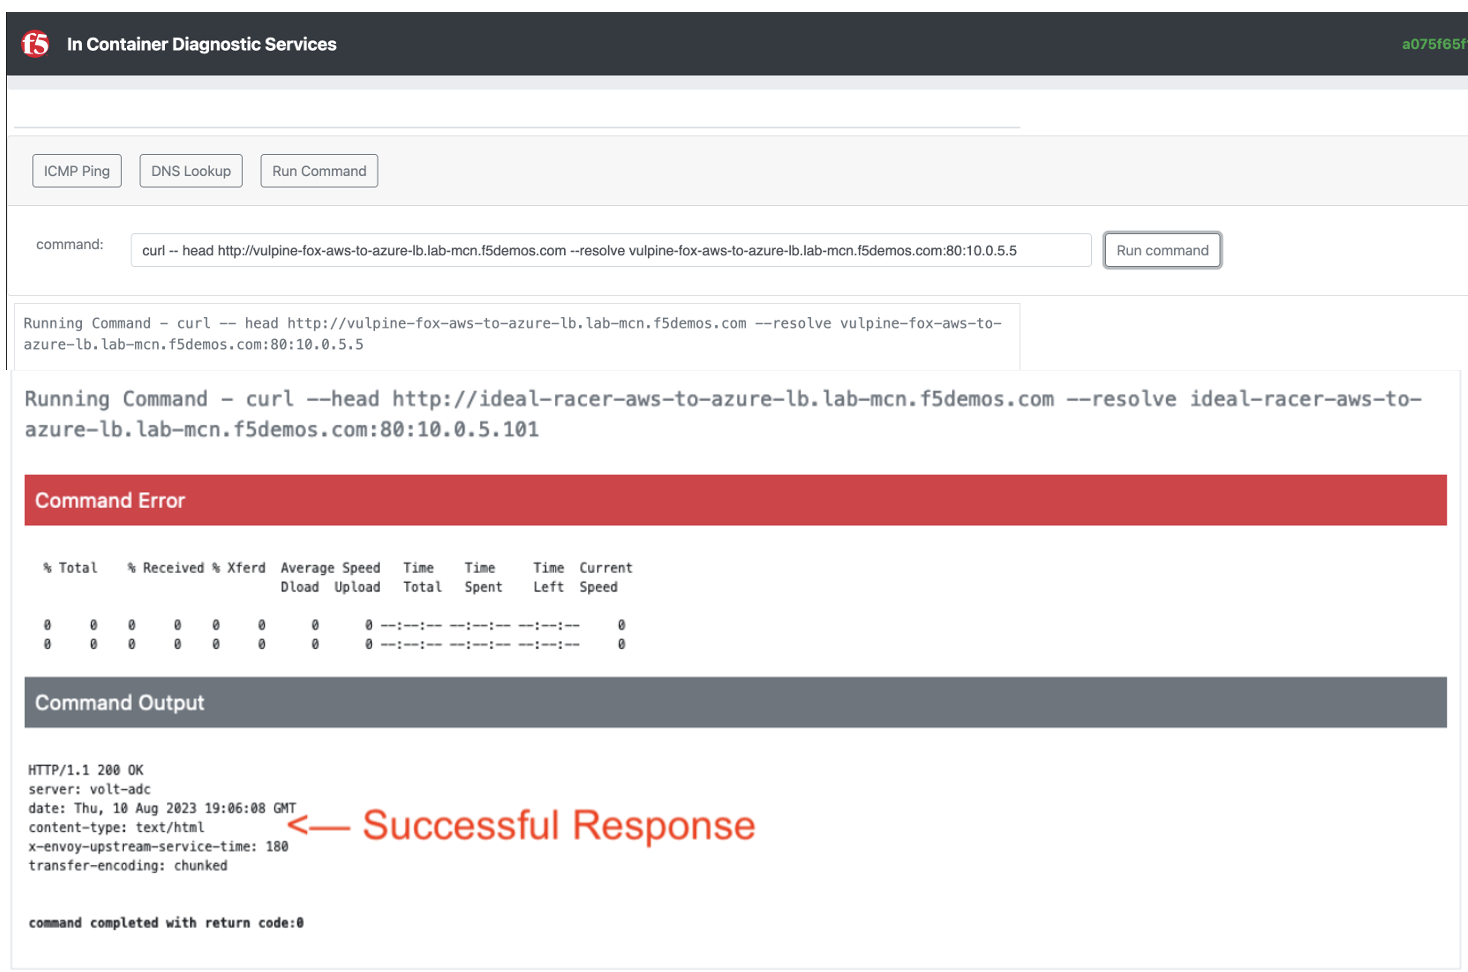
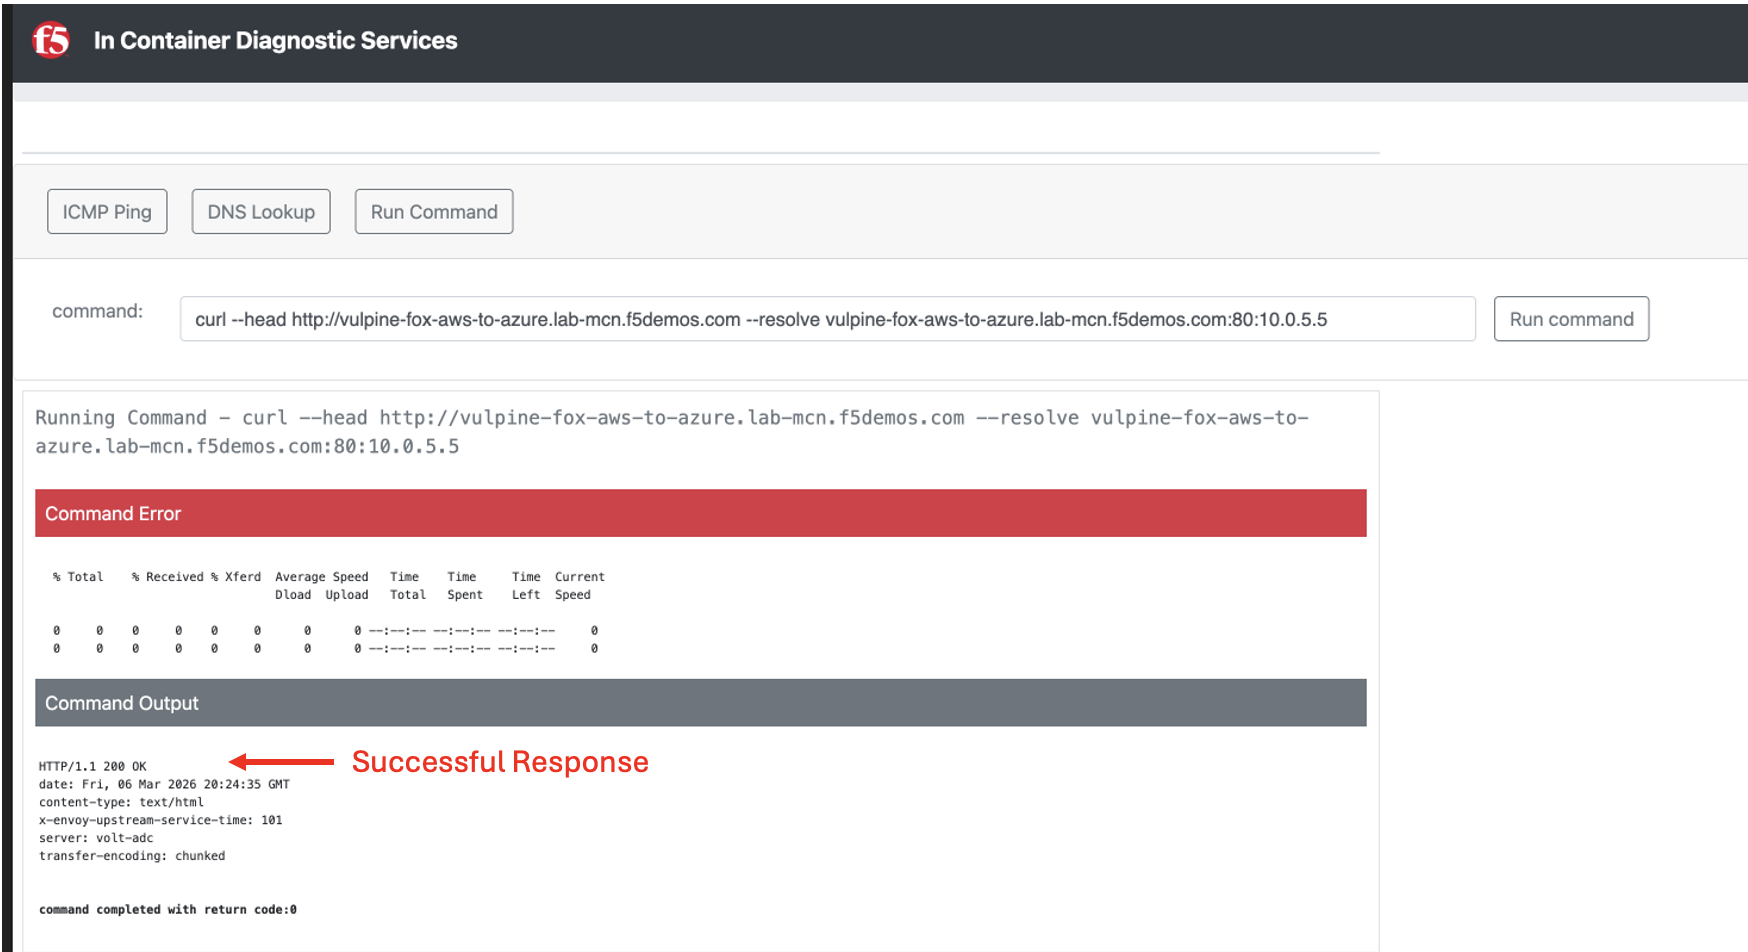
lab 4 update

Changed region(s): [[0.0, 0.0, 1.0, 1.0], [0.7357, 0.2132, 0.8583, 0.3046], [0.8583, 0.3046, 0.9503, 0.3655]]

diff --git a/docs/class6/module2/lab4.rst b/docs/class6/module2/lab4.rst
@@ -306,7 +306,7 @@ Let's test the connectivity between AWS and Azure through the internal load bala
 
 47. Click **Run Command** and paste the following (remember you IP may differ):
 
-    **curl http://<your-namespace>-aws-to-azure-lb.lab-mcn.f5demos.com --resolve <your-namespace>-aws-to-azure-lb.lab-mcn.f5demos.com:80:10.0.5.16**
+    **curl http://<your-namespace>-aws-to-azure-lb.lab-mcn.f5demos.com --resolve <your-namespace>-aws-to-azure-lb.lab-mcn.f5demos.com:80:10.0.5.5**
 
     |lab018|
 
@@ -314,7 +314,7 @@ Let's test the connectivity between AWS and Azure through the internal load bala
 
 48. Test again with the **--head** flag:
 
-    **curl --head http://<your-namespace>-aws-to-azure-lb.lab-mcn.f5demos.com --resolve <your-namespace>-aws-to-azure-lb.lab-mcn.f5demos.com:80:10.0.5.16**
+    **curl --head http://<your-namespace>-aws-to-azure-lb.lab-mcn.f5demos.com --resolve <your-namespace>-aws-to-azure-lb.lab-mcn.f5demos.com:80:10.0.5.5**
 
     |lab019|
 
